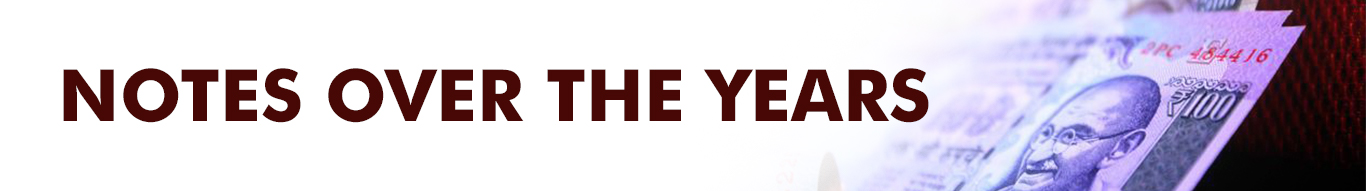
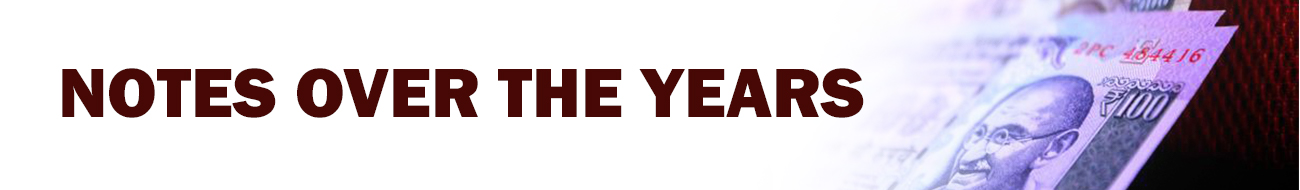
update
update

Changed region(s): [[0.0308, 0.0, 1.0, 1.0]]

diff --git a/index.html b/index.html
@@ -18,15 +18,14 @@
     #visdown-input {display: none;}
   </style>  
 </head>
-<body>
+<body bgcolor="ffffff">
 <center>
-
-    <h1>Notes Over The Years</h1>
+    <img src="C:\Users\Siddharth Priya\Documents\GitHub\visdown-template\head1.jpg" alt="notes over the years">
 
 <div id="visdown-input">
     
   ```vis
-width: 400
+width: 1300
 height: 400
 data:
  url: https://raw.githubusercontent.com/amitkaps/visdown/master/data/notes.csv
@@ -58,8 +57,6 @@ encoding:
      field: denom
      type: N
 ```
-
-
     
 </div>
 <div id="visdown-output"></div>
